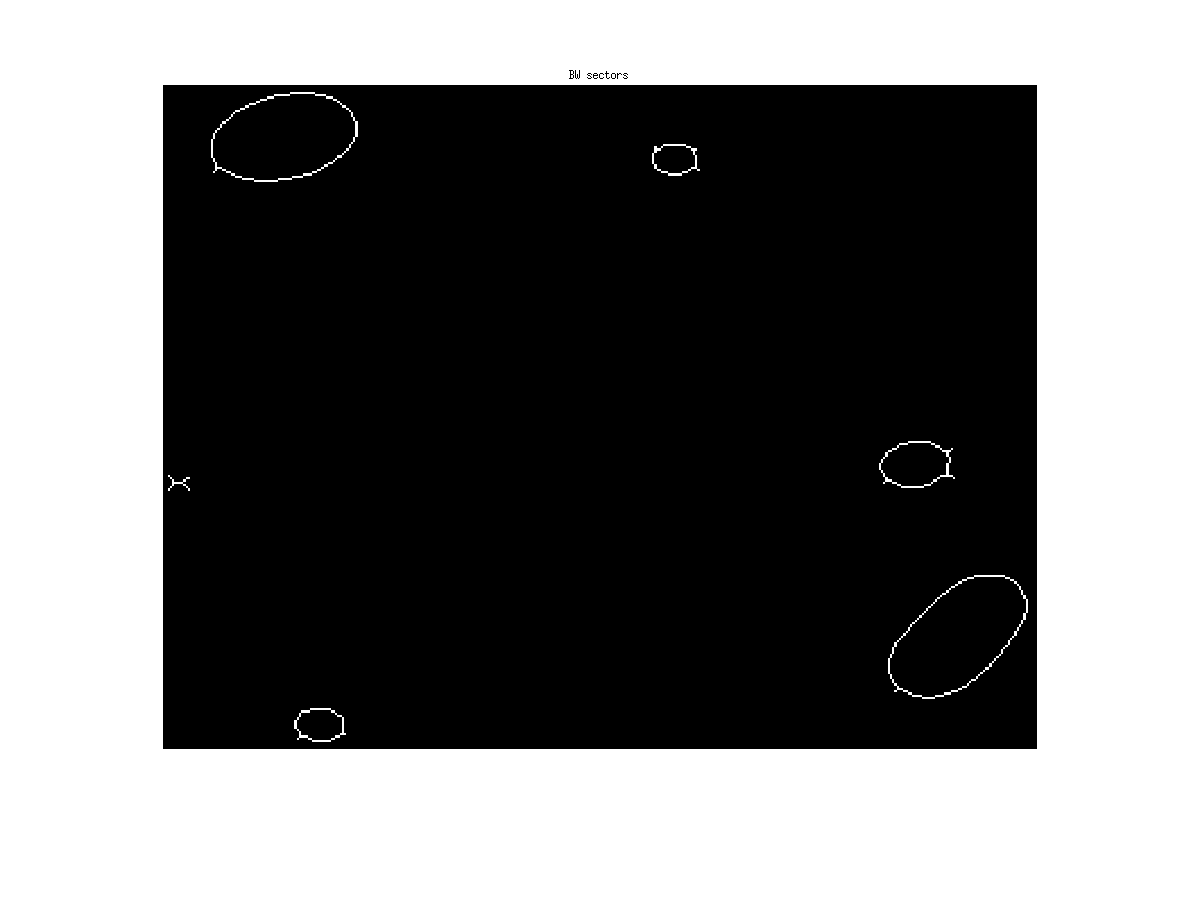
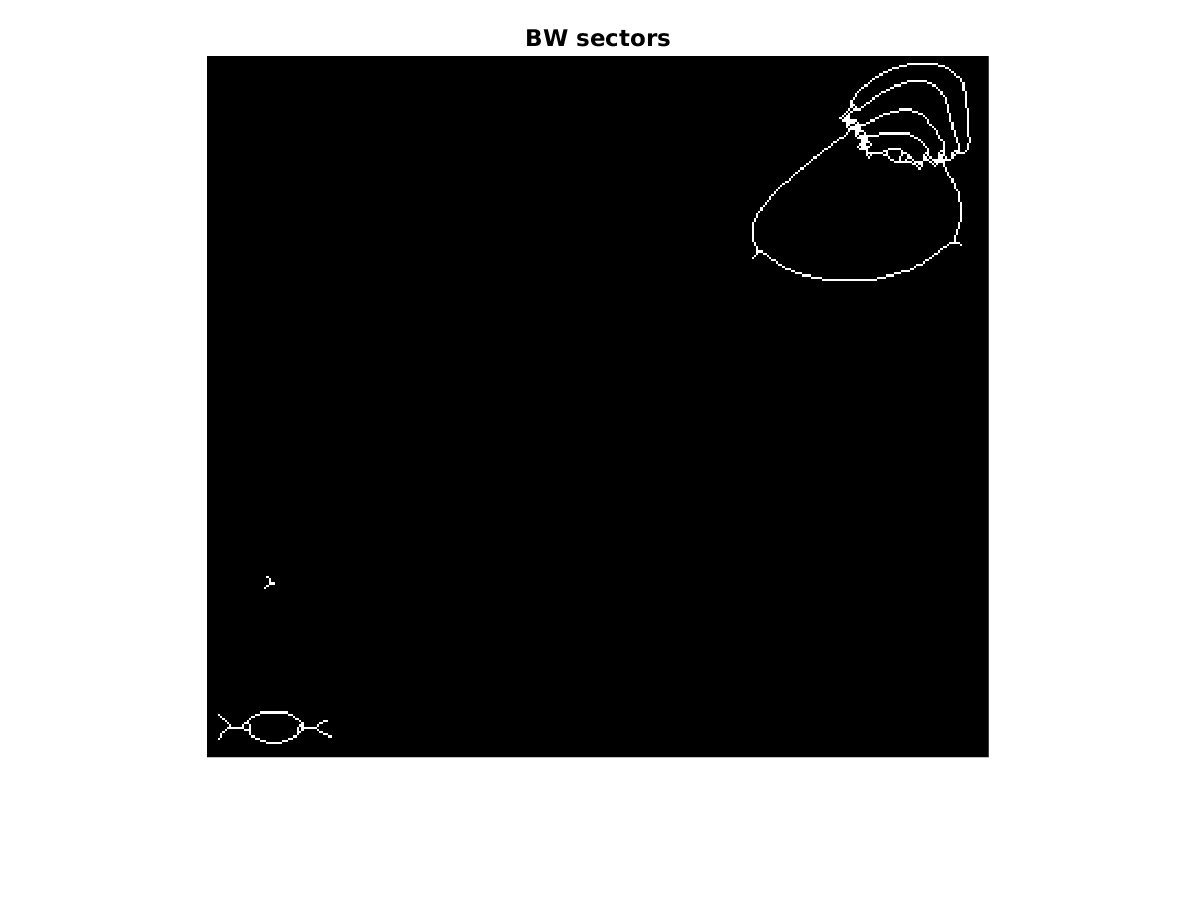
New arduino version for Cpanel , Noise sectors threshold cross CPanel 1.20

Changed region(s): [[0.1233, 0.0311, 0.8633, 0.84], [0.555, 0.1556, 0.5858, 0.1867]]

diff --git a/Matlab/[1] CPanel/ControlBoard2_10.m b/Matlab/[1] CPanel/ControlBoard2_10.m
@@ -1628,14 +1628,7 @@ delete(instrfindall)
                 bits = reshape(bitget(1,32:-1:1),8,[]);
                 cmd(2,:) = weights2*bits;
                 sendMess(cmd);
-            end
-            
-%             fwrite(xbee,16); 
-%             disp('Ack Requested.');
-%             ack = fread(xbee);
-%             disp('Receiving: ');
-%             disp(ack);
-            
+            end            
         end
 
         if get(handles.connect,'Value') == 0
@@ -1656,26 +1649,14 @@ delete(instrfindall)
             end
             
             set(handles.connect,'String','Connect');
-            %fwrite(xbee,20);
-            % Waiting for ack
-            %ack = fread(xbee);
-            %disp('Receiving: ');
-            %disp(ack);
         end 
     end
 
     %% Send topics
     function sendNMess(obj)
-        %disp(obj);
-        
-        fprintf(xbee,obj);    
-        
+        fprintf(xbee,obj);        
         %disp('Tot bytes sent');
         %xbee.ValuesSent
-        
-        % Command
-
-        %s = struct('H',value1,'C1',valueN)
     end
 
     %% Send topics
@@ -2112,7 +2093,7 @@ delete(instrfindall)
                     accReceived = true;
                 elseif tag == gyroTag
                     % Gyro
-                    disp('Gyro');
+                    %disp('Gyro');
                     [R,wXr,wYr,wZr,t] = strread(mess,'%s%f%f%f%s',1,'delimiter',',');
                     if gyrosco == true
                         if filterGyro

diff --git a/Matlab/Noise/thresholdCross.m b/Matlab/Noise/thresholdCross.m
@@ -10,14 +10,14 @@ addpath('Reference/export/');
 
 %% Random Radial Basis functions in space 
 disp('3D case with random path - 10 rbf:');
-N = 100 % number of random functions
+N = 5 % number of random functions
 stepMesh = 0.1;
 Z = zeros((XMax-XMin)/stepMesh+1,(XMax-XMin)/stepMesh+1);
 [X,Y] = meshgrid(XMin:stepMesh:XMax);
 % random variance in [a;b] = [0.3;1.5]
-variances = 0.3 + (1.5-0.3).*rand(N,1);
+variances = 0.5 + (1.5-0.3).*rand(N,1);
 % random amplitude [0.1;1]
-amplitudes = 0.1 + (1-0.1).*rand(N,1);
+amplitudes = 0.7 + (1-0.1).*rand(N,1);
 % Random Xcenters in [-XMin;xMax]
 Xcenters = XMin+ (XMax-XMin).*rand(N,1);
 Ycenters = YMin+ (YMax-YMin).*rand(N,1);
@@ -41,19 +41,11 @@ surf(X,Y,Z)
 
 %% Analyze data -  Post elaboration 
 % Contour[Required]
-% 
-% figure(2)
-% grid on
-% axis equal
-% % axis tight
-% % contour(X,Y,Z);
+
 figure(2)
  cl = contour(X,Y,Z);
 [x1,y1,z1] = C2xyz(cl);
-% 
-% % countours at 0.8
-% h=[0.8,0.8]
-% contour(X,Y,Z,h)
+
 %% isaolate regions of interest
 % Same ad the commented code above + more options
 figure(3)

diff --git a/Matlab/Noise/sectors.m b/Matlab/Noise/sectors.m
@@ -14,7 +14,7 @@ addpath('Reference/export/');
 
 %% Random Radial Basis functions in space 
 disp('3D case with random path - 10 rbf:');
-N = 20 % number of random functions
+N = 12 % number of random functions
 stepMesh = 0.1;
 Z = zeros((XMax-XMin)/stepMesh+1,(XMax-XMin)/stepMesh+1);
 [X,Y] = meshgrid(XMin:stepMesh:XMax);
@@ -45,19 +45,11 @@ start = surf(X,Y,Z,'LineStyle','none','FaceLighting','phong');
 
 %% Analyze data -  Post elaboration 
 % Contour[Required]
-% 
-% figure(2)
-% grid on
-% axis equal
-% % axis tight
-% % contour(X,Y,Z);
+
 figure(2)
  cl = contour(X,Y,Z,100);
 [x1,y1,z1] = C2xyz(cl);
-% 
-% % countours at 0.8
-% h=[0.8,0.8]
-% contour(X,Y,Z,h)
+
 %% isaolate regions of interest
 % Same ad the commented code above + more options
 figure(3)
